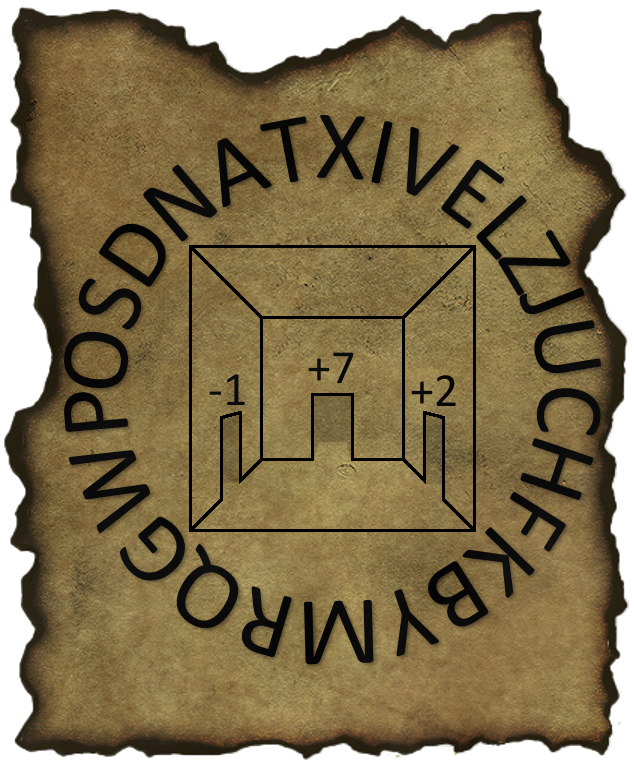
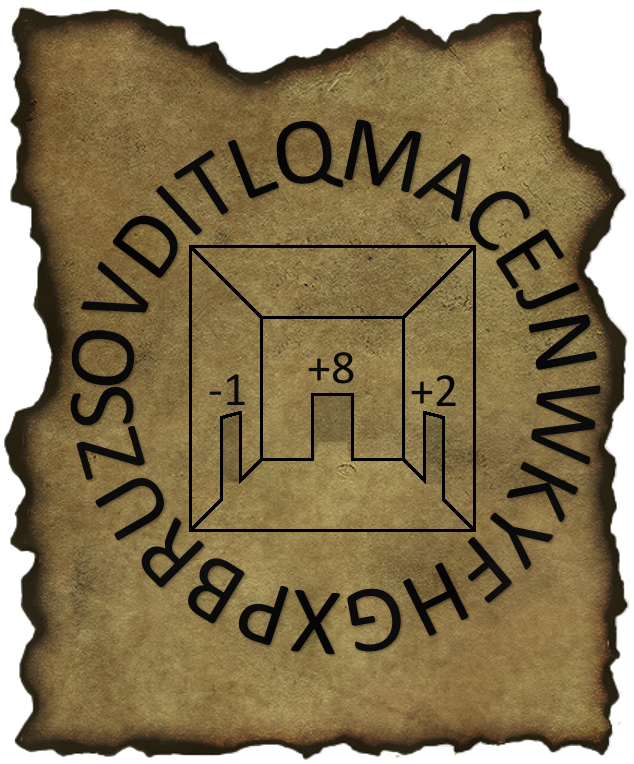
Fix mistake that made puzzle 15 unsolvable

Changed region(s): [[0.0899, 0.1505, 0.959, 0.873], [0.5095, 0.4516, 0.5694, 0.5118]]

diff --git a/phase3/no_turning_back/index.php b/phase3/no_turning_back/index.php
@@ -32,6 +32,9 @@ The prince of darkness has taken everything from you, including your princess. S
         <div id="content_container">
             <div id="modification">
                 <p>Modification (Jan 6, 11:30 a.m. EST): There was an error in the fifth clue. It has been fixed.</p>
+                <p>Modification (Jan 7, 11:30 p.m. EST): The picture was changed to fix errors that made the puzzle
+                    unsolvable. Letter order and one number has changed. Please refresh the page and bypass your cache
+                    if you worked on the puzzle before this time.</p>
 
 <?php
 print_template($questionNumber, $questionTitle, ob_get_clean());

diff --git a/php_source/puzzles/puzzle_messages.php b/php_source/puzzles/puzzle_messages.php
@@ -295,13 +295,9 @@ function puzzle_messages_15($answer) {
     switch ($answer) {
         case "djikstra":
             return "Correct!";
-        case "wcyeprtq":
-        case "dlrllafe":
-        case "wftffqlk":
-        case "lyntofoa":
-        case "figroloq":
-        case "leldrfla":
-        case "fkfwtlfq":
+        case "exjrmntf":
+        case "zyunvrtg":
+        case "qulpctno":
             return "That doesn't make sense. You must have decoded something incorrectly.";
         case "zelda":
         case "legendofzelda":
